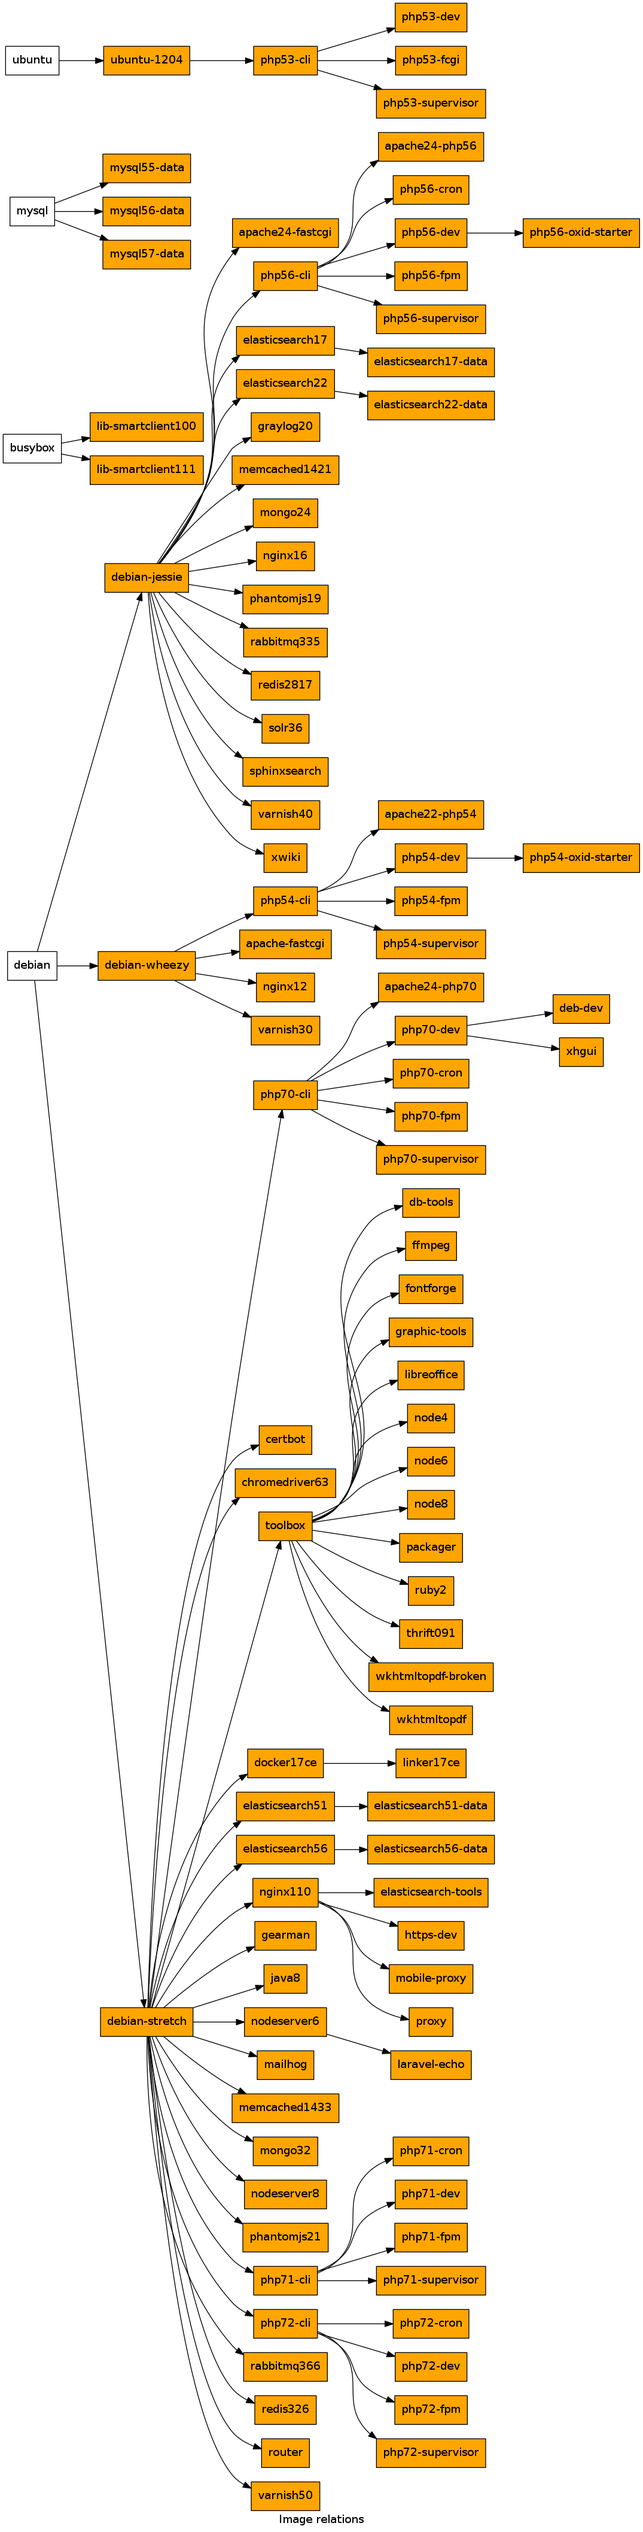
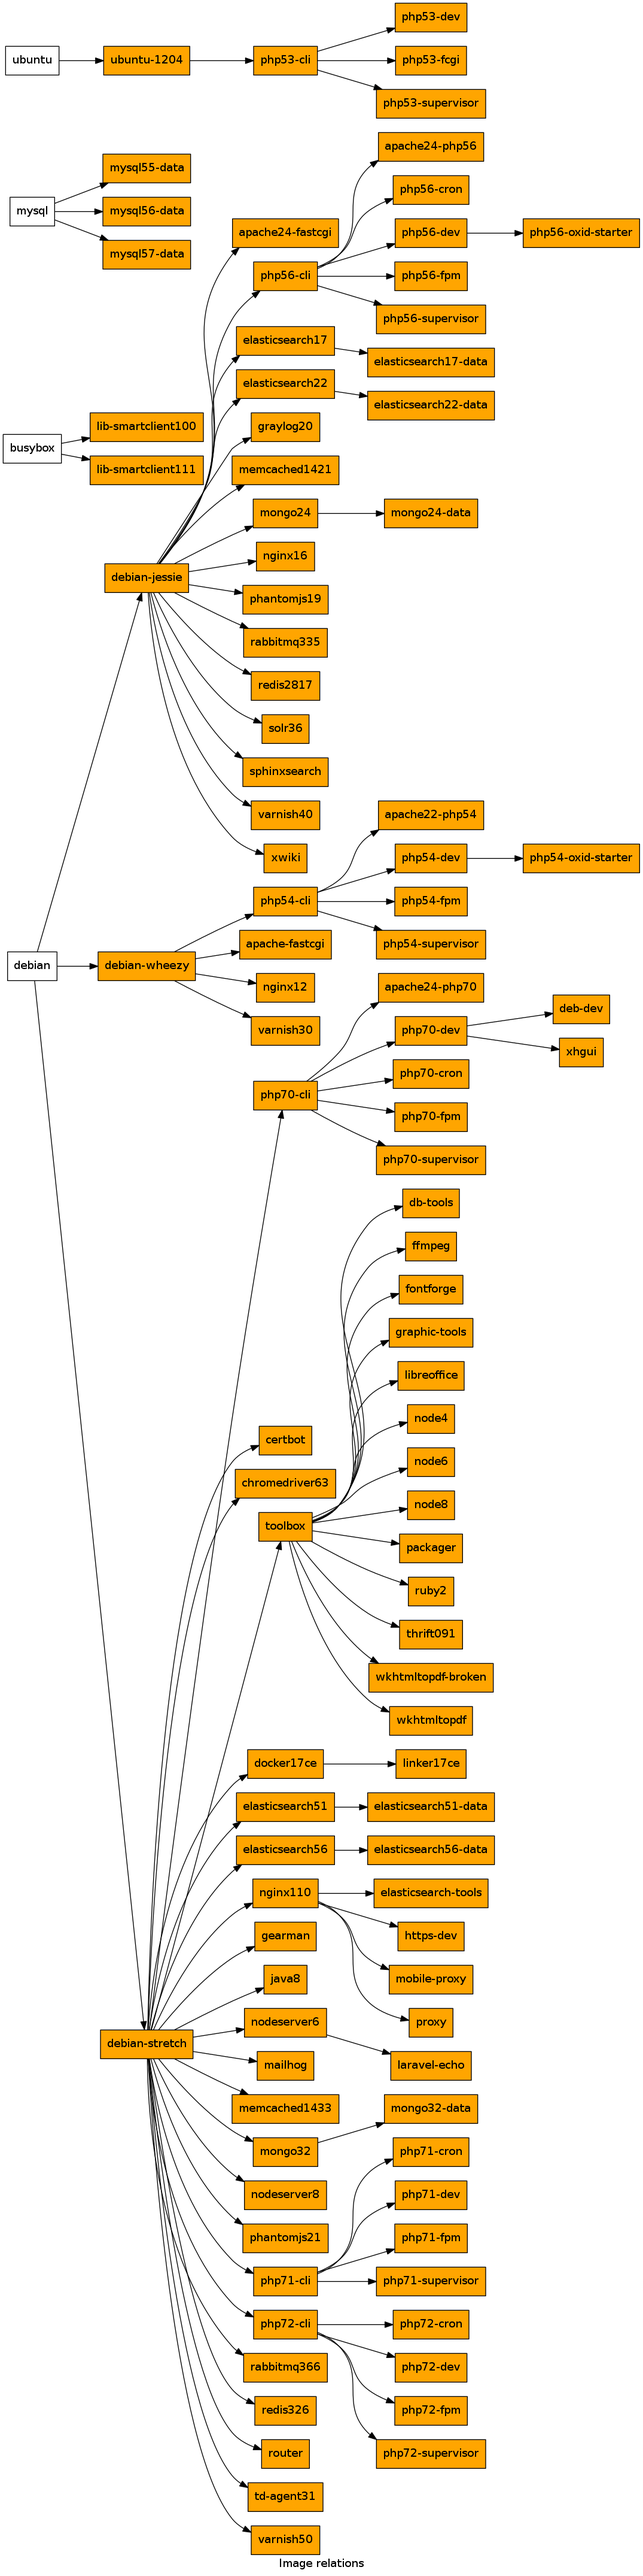
adding td-agent31 (fluentd 0.12) image

diff --git a/td-agent31/README.md b/td-agent31/README.md
@@ -1,0 +1,39 @@
+
+
+## supported env vars
+
+### defaults
+
+This image puts all logs to stdout in case neither NFQ_LOG_TO_FILE 
+ nor NFQ_LOG_TO_AGREGATOR is specified.
+
+
+### NFQ_LOG_TO_FILE (optional)
+
+Use this option to put logs into files by assigning full path with
+ file prefix you want your logs stored in.
+
+Empty by default.
+
+
+### NFQ_LOG_TO_AGREGATOR (optional)
+
+Use this to forward your logs to upstream server by assigning servers
+ hostname and optionally port separated by a colon. In case port is
+ not specified it defaults to 24224.
+
+Empty by default.
+
+example:
+    docker run -it -e NFQ_LOG_TO_AGREGATOR='upstream.fluentd.lan' <this_image>
+    docker run -it -e NFQ_LOG_TO_AGREGATOR='upstream.fluentd.lan:24224' <this_image>
+
+
+## list of available inputs
+
+* http json (port: 9880)
+* forwarding (port: 24224)
+
+
+
+
